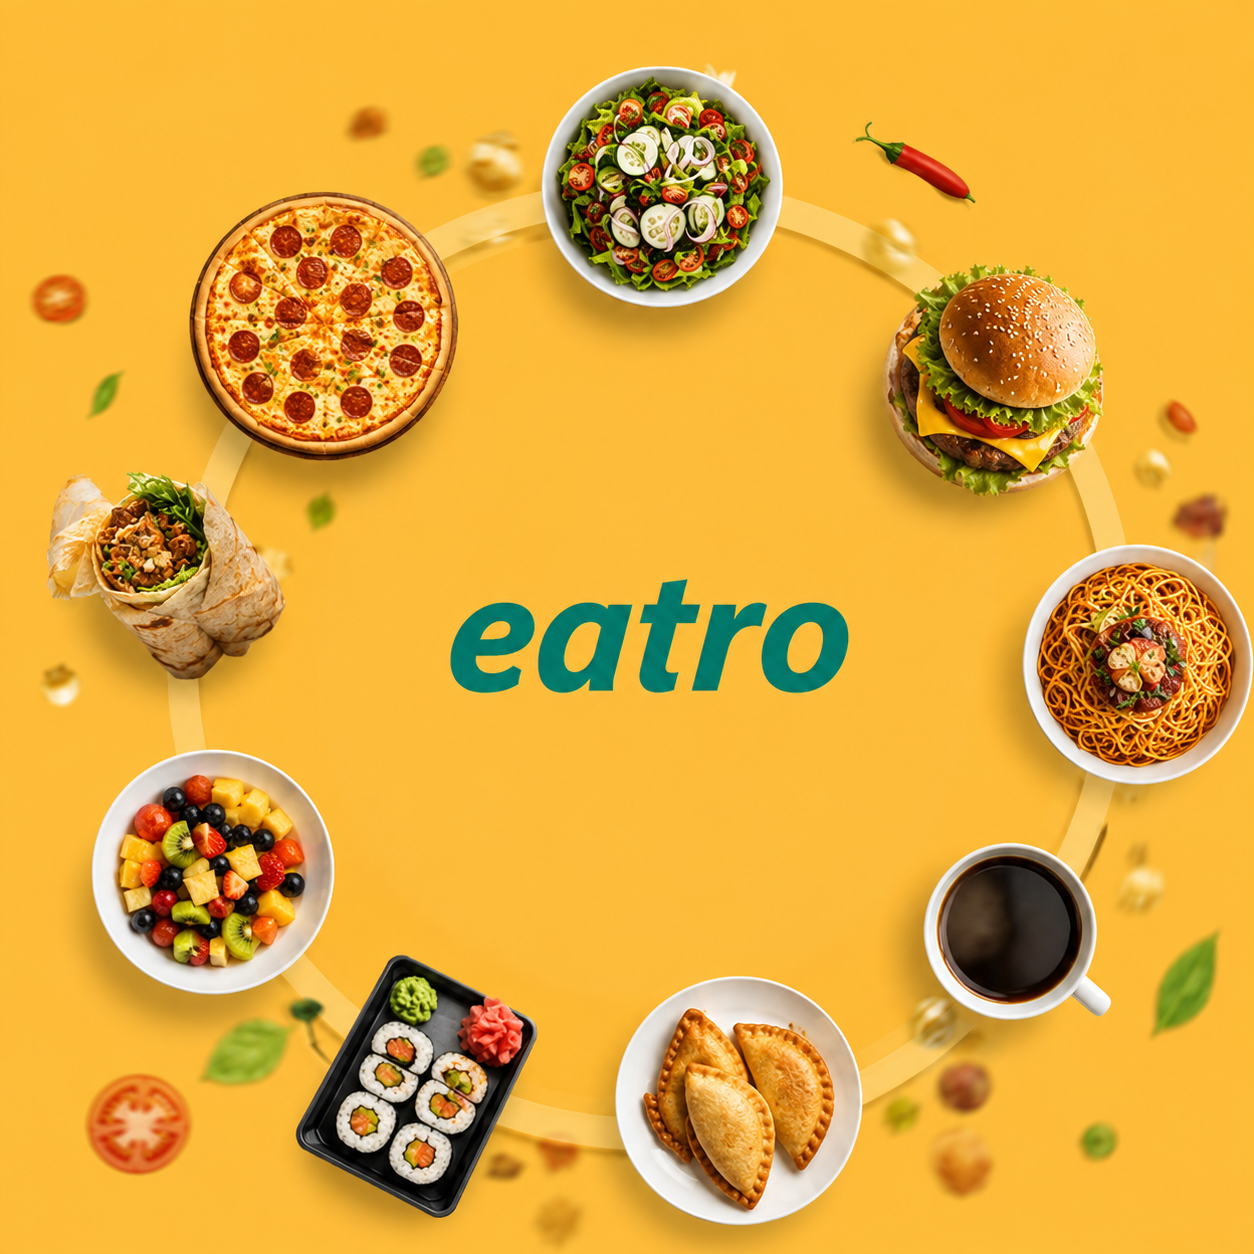
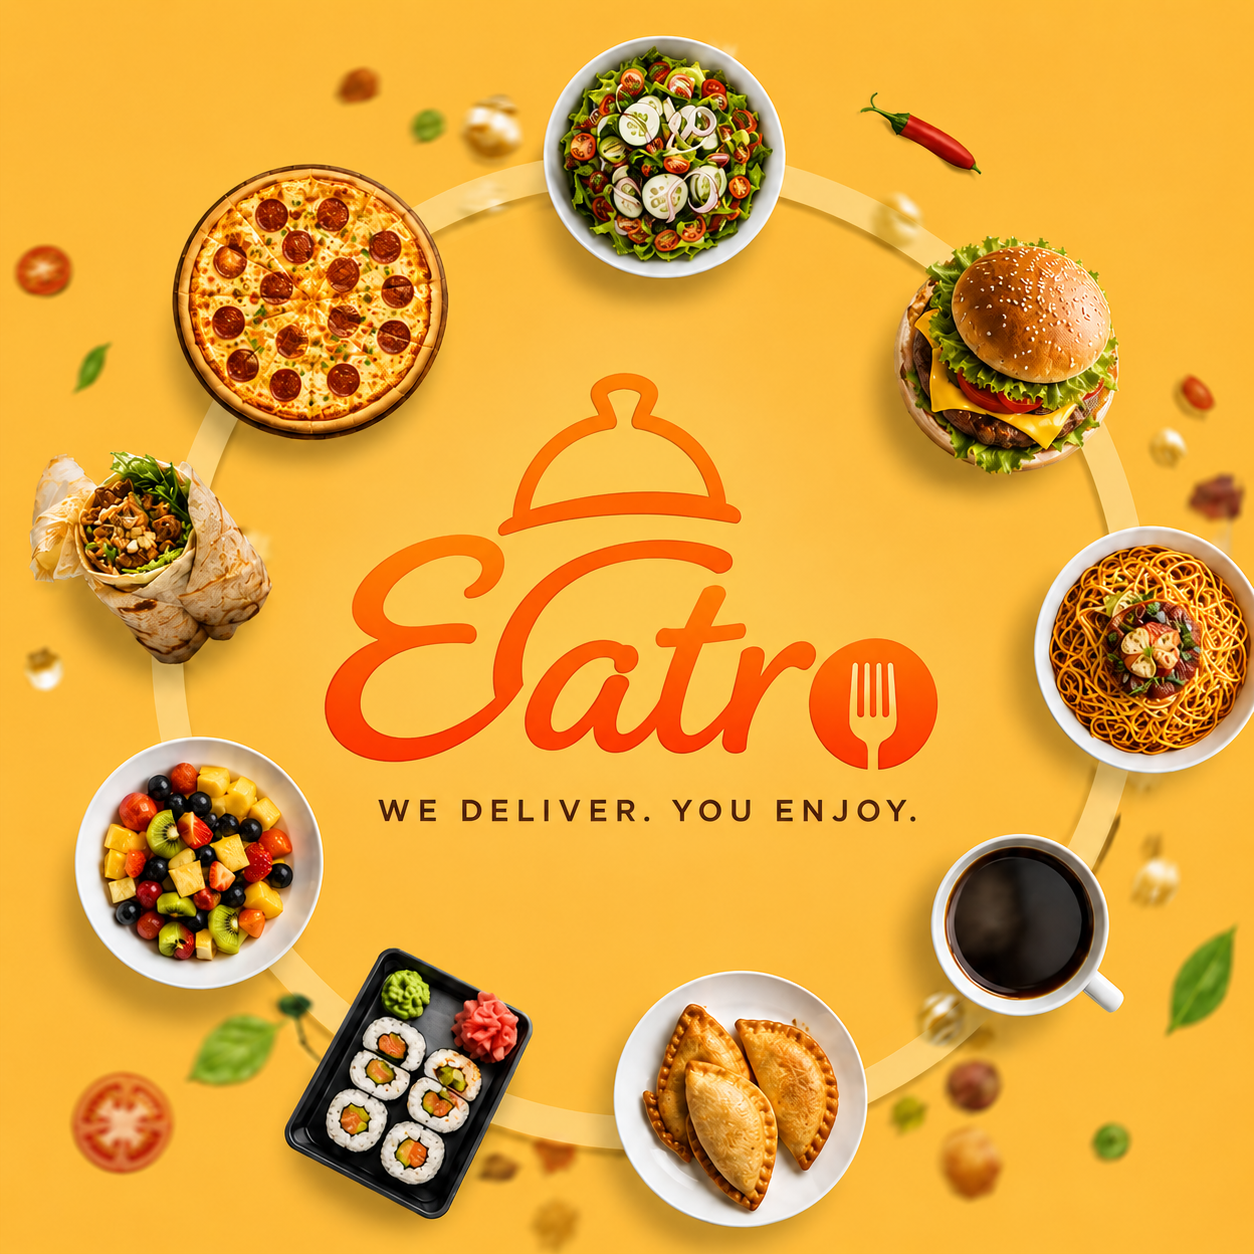
new infos

diff --git a/Eatros/components/LoadingAnimation.jsx b/Eatros/components/LoadingAnimation.jsx
@@ -2,12 +2,16 @@
 
 import { useEffect, useRef } from 'react'
 import { gsap } from 'gsap'
+import { Pacifico } from 'next/font/google'
+
+const pacifico = Pacifico({ weight: '400', subsets: ['latin'], display: 'swap' })
 
 const LoadingAnimation = ({ onComplete }) => {
   const containerRef = useRef(null)
   const wrapperRef = useRef(null)
+  const iconRef = useRef(null)
   const lettersRef = useRef([])
-  const pinRef = useRef(null)
+  const subtitleRef = useRef(null)
 
   useEffect(() => {
     const tl = gsap.timeline({
@@ -18,73 +22,102 @@ const LoadingAnimation = ({ onComplete }) => {
       }
     })
 
-    // Setup initial state: elements are invisible and positioned above
+    // Setup initial state
+    gsap.set(iconRef.current, { y: -100, opacity: 0, scale: 0.8 })
     gsap.set(lettersRef.current, { y: -60, opacity: 0 })
-    gsap.set(pinRef.current, { scale: 0, opacity: 0 })
+    gsap.set(subtitleRef.current, { opacity: 0, y: 20 })
 
+    // Animate Icon
+    tl.to(iconRef.current, {
+      y: 0,
+      opacity: 1,
+      scale: 1,
+      duration: 0.8,
+      ease: "bounce.out"
+    })
     // Staggered drop down animation for the letters
-    tl.to(lettersRef.current, {
+    .to(lettersRef.current, {
       y: 0,
       opacity: 1,
       duration: 0.6,
       stagger: 0.1,
       ease: "back.out(1.5)"
-    })
-    // Pin pops in after the letters finish dropping
-    .to(pinRef.current, {
-      scale: 1,
+    }, "-=0.3")
+    // Fade in subtitle
+    .to(subtitleRef.current, {
       opacity: 1,
+      y: 0,
       duration: 0.5,
-      ease: "back.out(2)"
+      ease: "power2.out"
     }, "-=0.2")
-    // Add a gentle pulse to the entire wrapper mimicking an app loading heartbeat
-    .to(wrapperRef.current, {
-      scale: 1.05,
-      duration: 0.5,
-      yoyo: true,
-      repeat: 1, // Pulse down and up once
-      ease: "sine.inOut"
-    }, "+=0.2")
     // Zoom through effect: massive scale up and fade out before transition
     .to(wrapperRef.current, {
-      scale: 60,
+      scale: 30,
       opacity: 0,
-      duration: 0.7,
+      duration: 0.8,
       ease: "power3.in"
-    }, "+=0.3")
+    }, "+=0.6")
 
     return () => {
       tl.kill()
     }
   }, [onComplete])
 
-  const letters = "EATRO".split("")
+  const letters = "Eatro".split("")
 
   return (
     <div
       ref={containerRef}
-      // Using a solid yellow background inspired by the visual reference
-      className="fixed inset-0 flex items-center justify-center min-h-screen bg-[#FFC244] z-50 overflow-hidden"
+      className={`fixed inset-0 flex flex-col items-center justify-center min-h-screen bg-white z-50 overflow-hidden ${pacifico.className}`}
     >
-      <div ref={wrapperRef} className="flex items-center">
-        {/* Italic EATRO wordmark */}
-        <h1 className="text-6xl tracking-tight font-extrabold flex items-center italic">
-          {letters.map((char, index) => (
-            <span
-              key={index}
-              ref={(el) => (lettersRef.current[index] = el)}
-              className={`inline-block ${index < 3 ? 'text-[#A31621]' : 'text-white'}`}
-            >
-              {char}
-            </span>
-          ))}
-          {/* Location pin acting as an exclamation/accent mark */}
-          <span ref={pinRef} className="inline-block ml-1 mt-1">
-            <svg className="w-12 h-12 text-[#A31621]" viewBox="0 0 24 24" fill="currentColor">
-              <path d="M12 2C8.13 2 5 5.13 5 9c0 5.25 7 13 7 13s7-7.75 7-13c0-3.87-3.13-7-7-7zm0 9.5c-1.38 0-2.5-1.12-2.5-2.5s1.12-2.5 2.5-2.5 2.5 1.12 2.5 2.5-1.12 2.5-2.5 2.5z"/>
-            </svg>
-          </span>
+      <div ref={wrapperRef} className="flex flex-col items-center">
+        {/* The Cloche & C Icon */}
+        <div ref={iconRef} className="mb-2">
+          <svg width="120" height="120" viewBox="0 0 100 100" fill="none">
+            {/* Cloche Knob */}
+            <path d="M47 22 C45 16 55 16 53 22" stroke="#FF5722" strokeWidth="5" strokeLinecap="round" />
+            {/* Cloche Dome */}
+            <path d="M28 45 C28 25 72 25 72 45" stroke="#FF5722" strokeWidth="5" strokeLinecap="round" />
+            {/* Cloche Rim */}
+            <path d="M22 50 C40 45 60 45 78 50" stroke="#FF5722" strokeWidth="6" strokeLinecap="round" />
+            {/* C Shape / Plate */}
+            <path d="M72 65 C40 50 10 70 20 90 C30 105 60 100 72 82" stroke="#FF5722" strokeWidth="6" strokeLinecap="round" />
+          </svg>
+        </div>
+
+        {/* Eatro wordmark */}
+        <h1 className="text-7xl font-bold flex items-center text-[#FF5722]" style={{ lineHeight: '1.2' }}>
+          {letters.map((char, index) => {
+            if (char === 'o') {
+              return (
+                <span
+                  key={index}
+                  ref={(el) => (lettersRef.current[index] = el)}
+                  className="inline-flex items-center justify-center relative -ml-1 mt-3 w-[46px] h-[46px] bg-[#FF5722] rounded-full"
+                >
+                  {/* Fork Cutout for 'o' */}
+                  <svg viewBox="0 0 24 24" fill="white" className="w-[18px] h-[26px]">
+                    <path d="M7 2v6c0 1.1.9 2 2 2h2v12h2V10h2c1.1 0 2-.9 2-2V2h-1.5v6c0 .3-.2.5-.5.5s-.5-.2-.5-.5V2h-2v6c0 .3-.2.5-.5.5s-.5-.2-.5-.5V2H10v6c0 .3-.2.5-.5.5s-.5-.2-.5-.5V2H7z"/>
+                  </svg>
+                </span>
+              )
+            }
+            return (
+              <span
+                key={index}
+                ref={(el) => (lettersRef.current[index] = el)}
+                className="inline-block relative"
+              >
+                {char}
+              </span>
+            )
+          })}
         </h1>
+
+        {/* Subtitle */}
+        <p ref={subtitleRef} className="mt-4 text-[#4A3B32] text-sm tracking-[0.3em] font-sans font-bold uppercase">
+          We Deliver. You Enjoy.
+        </p>
       </div>
     </div>
   )

diff --git a/Eatros/app/layout.js b/Eatros/app/layout.js
@@ -12,8 +12,8 @@ import "./globals.css";
 // });
 
 export const metadata = {
-  title: "Create Next App",
-  description: "Generated by create next app",
+  title: "Eatro",
+  description: "Eatro is your premier food delivery service. We Deliver. You Enjoy. Discover and order from a wide variety of local restaurants with fast, reliable, and convenient delivery straight to your door.",
 };
 
 import { Toaster } from 'react-hot-toast';
